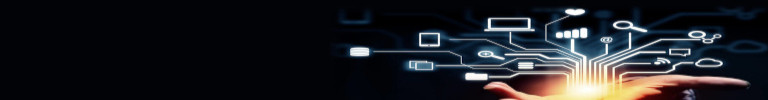
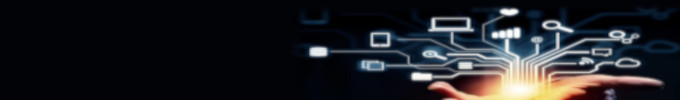
atualizar

diff --git a/styly.css b/styly.css
@@ -104,7 +104,7 @@ a:hover {
 	text-decoration: underline;
 }
 
-@media  screen and (max-width: 668px) {
+@media  screen and (max-width: 768px) {
 	header {
 	background: url("tecnologia-med.jpg") no-repeat;
 	margin-top: -20px;
